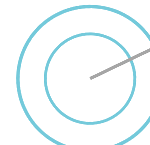
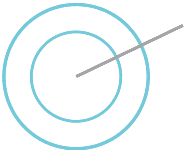
InSight: back-to-top button + refined top-bar brand
- Floating back-to-top button (bottom-right, house primary): appears after
  scrolling >260px, smooth-scrolls to the top (instant fallback where the
  browser blocks smooth), hides again at the top. Fixes deep-links landing far
  down the page with no quick way back.
- Top-bar brand refined: re-cropped the target mark tight to its content (no
  stray transparent margin that made it look off-centre), grouped mark +
  'INsight' wordmark as one unit at 30px, separated from the nav links.

Changed region(s): [[0.0, 0.0, 1.0, 1.0], [0.7467, 0.8, 1.0, 1.0]]

diff --git a/public/index.html b/public/index.html
@@ -46,7 +46,13 @@ body{margin:0;font-family:'Inter',-apple-system,BlinkMacSystemFont,'Segoe UI',sa
 /* Header (Management System anatomy) */
 .topbar{position:sticky;top:0;z-index:200;background:var(--surface);border-bottom:1px solid var(--border);padding:0 24px;height:60px;display:flex;align-items:center;justify-content:space-between;gap:12px;}
 .mark{width:36px;height:36px;background:var(--primary);border-radius:8px;display:flex;align-items:center;justify-content:center;font-size:13px;font-weight:700;color:#fff;flex-shrink:0;letter-spacing:.02em;}
-.mark-img{height:34px;width:auto;flex-shrink:0;display:block;}
+.brand{display:flex;align-items:center;gap:9px;}
+.mark-img{height:30px;width:auto;flex-shrink:0;display:block;}
+.wordmark{font-weight:700;font-size:17px;color:var(--primary);letter-spacing:-.02em;}
+/* Back-to-top floating button */
+.to-top{position:fixed;bottom:22px;right:22px;width:44px;height:44px;border-radius:50%;background:var(--primary);color:#fff;border:none;box-shadow:0 4px 16px rgba(17,24,39,.22);cursor:pointer;display:none;align-items:center;justify-content:center;z-index:1500;transition:opacity .2s,transform .15s;}
+.to-top:hover{transform:translateY(-2px);background:var(--accent-dark);}
+.to-top.show{display:flex;}
 .navlink{font-size:14px;font-weight:500;color:var(--text-muted);cursor:pointer;padding:6px 4px;border-bottom:2px solid transparent;transition:color .15s,border-color .15s;}
 .navlink:hover{color:var(--text);}
 .navlink.on{color:var(--accent);border-bottom-color:var(--accent);font-weight:600;}
@@ -300,9 +306,8 @@ button.ev-act:hover{border-color:var(--accent);color:var(--accent);background:va
  <div class="frame">
 
   <div id="topnav" class="topbar" style="display:none;">
-    <div style="display:flex;align-items:center;gap:16px;">
-      <img class="mark-img" src="/ahs-mark.png" alt="AHS" />
-      <span style="font-weight:700;font-size:15px;color:var(--primary);letter-spacing:-.01em;">INsight</span>
+    <div style="display:flex;align-items:center;gap:22px;">
+      <div class="brand"><img class="mark-img" src="/ahs-mark.png" alt="AHS" /><span class="wordmark">INsight</span></div>
       <span class="navlink" data-go="dashboard" onclick="InSightApp.renderDashboard()">Projects</span>
       <span class="navlink" data-go="admin" id="navAdmin" style="display:none;">Admin</span>
     </div>
@@ -1956,5 +1961,20 @@ window.InSightApp = (function(){
 })();
 </script>
 <div id="toast"></div>
+<button id="toTop" class="to-top" aria-label="Back to top" title="Back to top"><svg xmlns="http://www.w3.org/2000/svg" width="20" height="20" viewBox="0 0 24 24" fill="none" stroke="currentColor" stroke-width="2.4" stroke-linecap="round" stroke-linejoin="round"><path d="m18 15-6-6-6 6"/></svg></button>
+<script>
+(function(){
+  var btn = document.getElementById('toTop');
+  function upd(){ if(window.scrollY > 260) btn.classList.add('show'); else btn.classList.remove('show'); }
+  window.addEventListener('scroll', upd, { passive:true });
+  window.addEventListener('resize', upd);
+  // Smooth in real browsers; guaranteed instant fallback if smooth is blocked.
+  btn.addEventListener('click', function(){
+    try { window.scrollTo({ top:0, left:0, behavior:'smooth' }); } catch(e){ window.scrollTo(0,0); }
+    setTimeout(function(){ if(window.scrollY > 0) window.scrollTo(0,0); }, 500);
+  });
+  upd();
+})();
+</script>
 </body>
 </html>